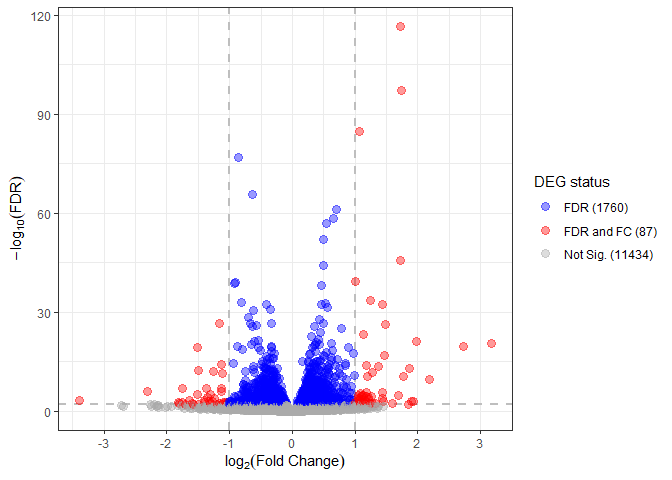
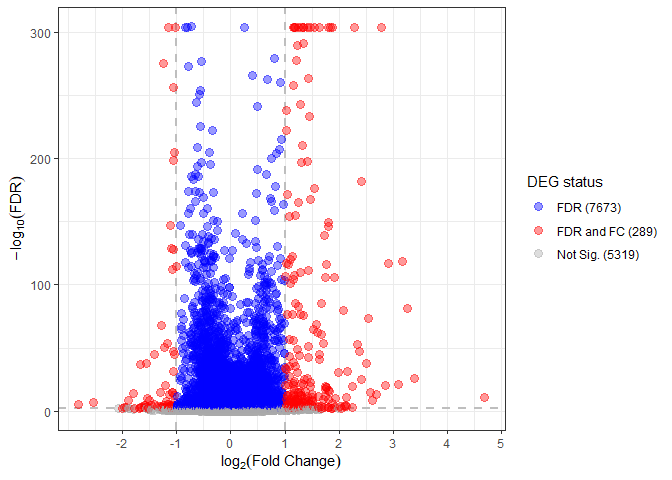
Updated plots for LRT

diff --git a/rmd_reports/ribodepleted_DEGs.md b/rmd_reports/ribodepleted_DEGs.md
@@ -26,9 +26,8 @@ exp_df <- fread(input = input_file, drop = c("P2_S2", "Q3_S1"))
 
 
 # Connect to the Ensembl mart
-ensembl <- useEnsembl(
-  biomart    = "genes",
-  dataset    = "hsapiens_gene_ensembl")
+ensembl <- useEnsembl("genes")
+ensembl <- useDataset(dataset = "hsapiens_gene_ensembl", mart = ensembl)
 
 # Query for gene symbol
 bm <- getBM(
@@ -745,56 +744,10 @@ This test do not separate the effects of any particular treatment.
 ``` r
 comparison <- "condition_PTS_vs_HF"
 
-# * Hglucose: captures the jump from LG → HG
-# * Hfat: captures the jump from HG → HF
-# * PTS, QUE: each captures the additional effect of that treatment
-
-dds3 <- DESeqDataSetFromMatrix(
-  countData = exp_matrix,
-  colData   = annot,
-  design    = ~ Hglucose + Hfat + PTS
-)
-
-
-dds3 <- DESeq(dds3, test    = "LRT",
-                   full    = ~ Hglucose + Hfat + PTS,
-                   reduced = ~ Hglucose + Hfat)
-```
-
-    ## estimating size factors
-
-    ## estimating dispersions
-
-    ## gene-wise dispersion estimates
-
-    ## mean-dispersion relationship
-
-    ## final dispersion estimates
-
-    ## fitting model and testing
-
-``` r
-de_res <- as.data.table(results(dds3))
-
-out_file <- file.path(out_path, paste("deseq2_LRT_", 
-                                      str_replace_all(comparison, "_", ""),
-                                      "_FDR", str_replace(alpha, "\\.", ""),
-                                      ".tsv", sep = ""))
-if(!file.exists(out_file)){
-  output_table = de_res
-  output_table[, log2FoldChange := round(log2FoldChange, 4)]
-  output_table[, baseMean       := round(baseMean, 4)]
-  output_table[, lfcSE          := round(lfcSE, 4)]
-  output_table[, stat           := round(stat, 4)]
-  output_table[, pvalue         := round(pvalue, 4)]
-  output_table[, padj           := round(padj, 4)]
-  output_table[, FoldChange := round((2**abs(log2FoldChange))*sign(log2FoldChange), 4)]
-  fwrite(x = output_table, file = out_file, 
-         append = FALSE, quote = FALSE, sep = '\t', 
-         row.names = FALSE, col.names = TRUE)
-}
+de_res <- results(dds3, name="PTS_1_vs_0")
 
 temp <- visualize_degs(de_res, alpha, log2FC)
+
 temp
 ```
 
@@ -807,25 +760,107 @@ temp
 
 ![](ribodepleted_DEGs_files/figure-gfm/unnamed-chunk-19-2.png)<!-- -->
 
+``` r
+# Save 
+out_file <- file.path(out_path, paste("deseq2_LRT_", 
+                                      str_replace_all(comparison, "_", ""),
+                                      "_FDR", str_replace(alpha, "\\.", ""),
+                                      ".tsv", sep = ""))
+if(!file.exists(out_file)){
+  output_table = data.table(geneID = row.names(de_res), 
+                            as.data.table(de_res))
+  output_table[, log2FoldChange := round(log2FoldChange, 4)]
+  output_table[, baseMean       := round(baseMean, 4)]
+  output_table[, lfcSE          := round(lfcSE, 4)]
+  output_table[, stat           := round(stat, 4)]
+  output_table[, pvalue         := round(pvalue, 4)]
+  output_table[, padj           := round(padj, 4)]
+  output_table[, FoldChange := round((2**abs(log2FoldChange)) * 
+                                       sign(log2FoldChange), 
+                                     4)]
+  fwrite(x = output_table, file = out_file, 
+         append = FALSE, quote = FALSE, sep = '\t', 
+         row.names = FALSE, col.names = TRUE)
+}
+```
+
 ## Does adding QUE significantly improve model fit??
 
 ``` r
 comparison <- "condition_QUE_vs_HF"
 
-# * Hglucose: captures the jump from LG → HG
-# * Hfat: captures the jump from HG → HF
-# * PTS, QUE: each captures the additional effect of that treatment
+de_res <- results(dds3, name="QUE_1_vs_0")
 
-dds3 <- DESeqDataSetFromMatrix(
-  countData = exp_matrix,
-  colData   = annot,
-  design    = ~ Hglucose + Hfat + QUE
-)
+temp <- visualize_degs(de_res, alpha, log2FC)
+
+temp
+```
+
+    ## [[1]]
+
+![](ribodepleted_DEGs_files/figure-gfm/unnamed-chunk-20-1.png)<!-- -->
+
+    ## 
+    ## [[2]]
+
+![](ribodepleted_DEGs_files/figure-gfm/unnamed-chunk-20-2.png)<!-- -->
+
+``` r
+# Save 
+out_file <- file.path(out_path, paste("deseq2_LRT_", 
+                                      str_replace_all(comparison, "_", ""),
+                                      "_FDR", str_replace(alpha, "\\.", ""),
+                                      ".tsv", sep = ""))
+if(!file.exists(out_file)){
+  output_table = data.table(geneID = row.names(de_res), 
+                            as.data.table(de_res))
+  output_table[, log2FoldChange := round(log2FoldChange, 4)]
+  output_table[, baseMean       := round(baseMean, 4)]
+  output_table[, lfcSE          := round(lfcSE, 4)]
+  output_table[, stat           := round(stat, 4)]
+  output_table[, pvalue         := round(pvalue, 4)]
+  output_table[, padj           := round(padj, 4)]
+  output_table[, FoldChange := round((2**abs(log2FoldChange)) * 
+                                       sign(log2FoldChange), 
+                                     4)]
+  fwrite(x = output_table, file = out_file, 
+         append = FALSE, quote = FALSE, sep = '\t', 
+         row.names = FALSE, col.names = TRUE)
+}
+```
+
+## Identifying recovery
+
+``` r
+meta <- data.frame(
+    condition = factor(condition, levels = c("LG","HG","HF","PTS","QUE")),
+    row.names = colnames(exp_matrix))
+
+## numeric pseudo-time (0,1,2) for the disease progression
+meta$time_num <- c(LG = 0,
+                   HG = 1,
+                   HF = 2,
+                   PTS = 2,   # keep PTS/QUE at the same ‘time‐point’ as HF
+                   QUE = 2)[ meta$condition ]
+
+## binary “recovery” flag
+meta$recovery <- factor(meta$condition %in% c("PTS","QUE"),
+                        levels = c(FALSE, TRUE),
+                        labels = c("Disease", "Recovery"))
 
 
-dds3 <- DESeq(dds3, test    = "LRT",
-                   full    = ~ Hglucose + Hfat + QUE,
-                   reduced = ~ Hglucose + Hfat)
+dds <- DESeqDataSetFromMatrix(countData = exp_matrix,
+                              colData   = meta,
+                              design    = ~ time_num + recovery)
+```
+
+    ##   the design formula contains one or more numeric variables with integer values,
+    ##   specifying a model with increasing fold change for higher values.
+    ##   did you mean for this to be a factor? if so, first convert
+    ##   this variable to a factor using the factor() function
+
+``` r
+dds <- DESeq(dds)
 ```
 
     ## estimating size factors
@@ -841,35 +876,80 @@ dds3 <- DESeq(dds3, test    = "LRT",
     ## fitting model and testing
 
 ``` r
-de_res <- as.data.table(results(dds3))
+res_trend <- results(dds, name = "time_num")
 
-out_file <- file.path(out_path, paste("deseq2_LRT_", 
-                                      str_replace_all(comparison, "_", ""),
-                                      "_FDR", str_replace(alpha, "\\.", ""),
-                                      ".tsv", sep = ""))
-if(!file.exists(out_file)){
-  output_table = de_res
-  output_table[, log2FoldChange := round(log2FoldChange, 4)]
-  output_table[, baseMean       := round(baseMean, 4)]
-  output_table[, lfcSE          := round(lfcSE, 4)]
-  output_table[, stat           := round(stat, 4)]
-  output_table[, pvalue         := round(pvalue, 4)]
-  output_table[, padj           := round(padj, 4)]
-  output_table[, FoldChange := round((2**abs(log2FoldChange))*sign(log2FoldChange), 4)]
-  fwrite(x = output_table, file = out_file, 
-         append = FALSE, quote = FALSE, sep = '\t', 
-         row.names = FALSE, col.names = TRUE)
-}
-
-temp <- visualize_degs(de_res, alpha, log2FC)
-temp
+res_rec   <- results(dds, name = "recovery_Recovery_vs_Disease")
 ```
 
-    ## [[1]]
+``` r
+alpha <- 0.05          # FDR cutoff
+lfc   <- 1             # effect-size cutoff (log2FC)
 
-![](ribodepleted_DEGs_files/figure-gfm/unnamed-chunk-20-1.png)<!-- -->
+## 4a: genes that go UP LG→HG→HF ...
+up_trend <- which(res_trend$padj < alpha & 
+                    res_trend$log2FoldChange >  lfc)
 
-    ## 
-    ## [[2]]
+## ... and come DOWN with PTS/QUE
+rec_down <- up_trend[ which(res_rec$padj[up_trend] < alpha &
+                            res_rec$log2FoldChange[up_trend] < -lfc)]
 
-![](ribodepleted_DEGs_files/figure-gfm/unnamed-chunk-20-2.png)<!-- -->
+## 4b: genes that go DOWN LG→HG→HF ...
+down_trend <- which(res_trend$padj < alpha & 
+                      res_trend$log2FoldChange < -lfc)
+## ... and come UP with PTS/QUE
+rec_up <- down_trend[which(res_rec$padj[down_trend] < alpha & 
+                           res_rec$log2FoldChange[down_trend] >  lfc)]
+
+## turn indices into gene IDs if desired
+genes_rec_down <- rownames(dds)[rec_down]
+genes_rec_up   <- rownames(dds)[rec_up]
+
+recovery_general <- data.table(genes = c(genes_rec_down, genes_rec_up))
+recovery_general[, recovery := ifelse(genes %in% genes_rec_down, "Down", "Up")]
+```
+
+``` r
+## ------------------------------------------
+## 1. pick the most significant “recovery” gene
+## ------------------------------------------
+gene_id <- genes_rec_up[20]
+# gene_id <- genes_rec_down[36]
+
+## ------------------------------------------
+## 2. extract normalised counts + metadata
+## ------------------------------------------
+fiss <- plotCounts(
+  dds, gene_id,
+  intgroup = c("recovery", "time_num"),   # columns in colData(dds)
+  returnData = TRUE
+)
+
+## turn the numeric time into 0,1,2 for nicer axis labels
+fiss$time_stage <- as.numeric(as.character(fiss$time_num))  
+
+## ------------------------------------------
+## 3. plot
+## ------------------------------------------
+
+ggplot(fiss,
+       aes(x = time_stage,
+           y = count,
+           colour = recovery,
+           group  = recovery)) +
+  geom_point(size = 2, alpha = 0.7) +
+  stat_summary(fun = mean, geom = "line", linewidth = 1) +
+  scale_x_continuous(
+      breaks = 0:3,
+      labels = c("LG", "HG", "HF", "PTS / QUE"),
+      expand = expansion(mult = 0.05)
+  ) +
+  scale_y_log10("normalised count (log scale)") +
+  labs(
+      title = paste("Gene:", gene_id),
+      x     = "Experimental stage",
+      colour = "Condition"
+  ) +
+  theme_classic(base_size = 12)
+```
+
+![](ribodepleted_DEGs_files/figure-gfm/unnamed-chunk-23-1.png)<!-- -->
